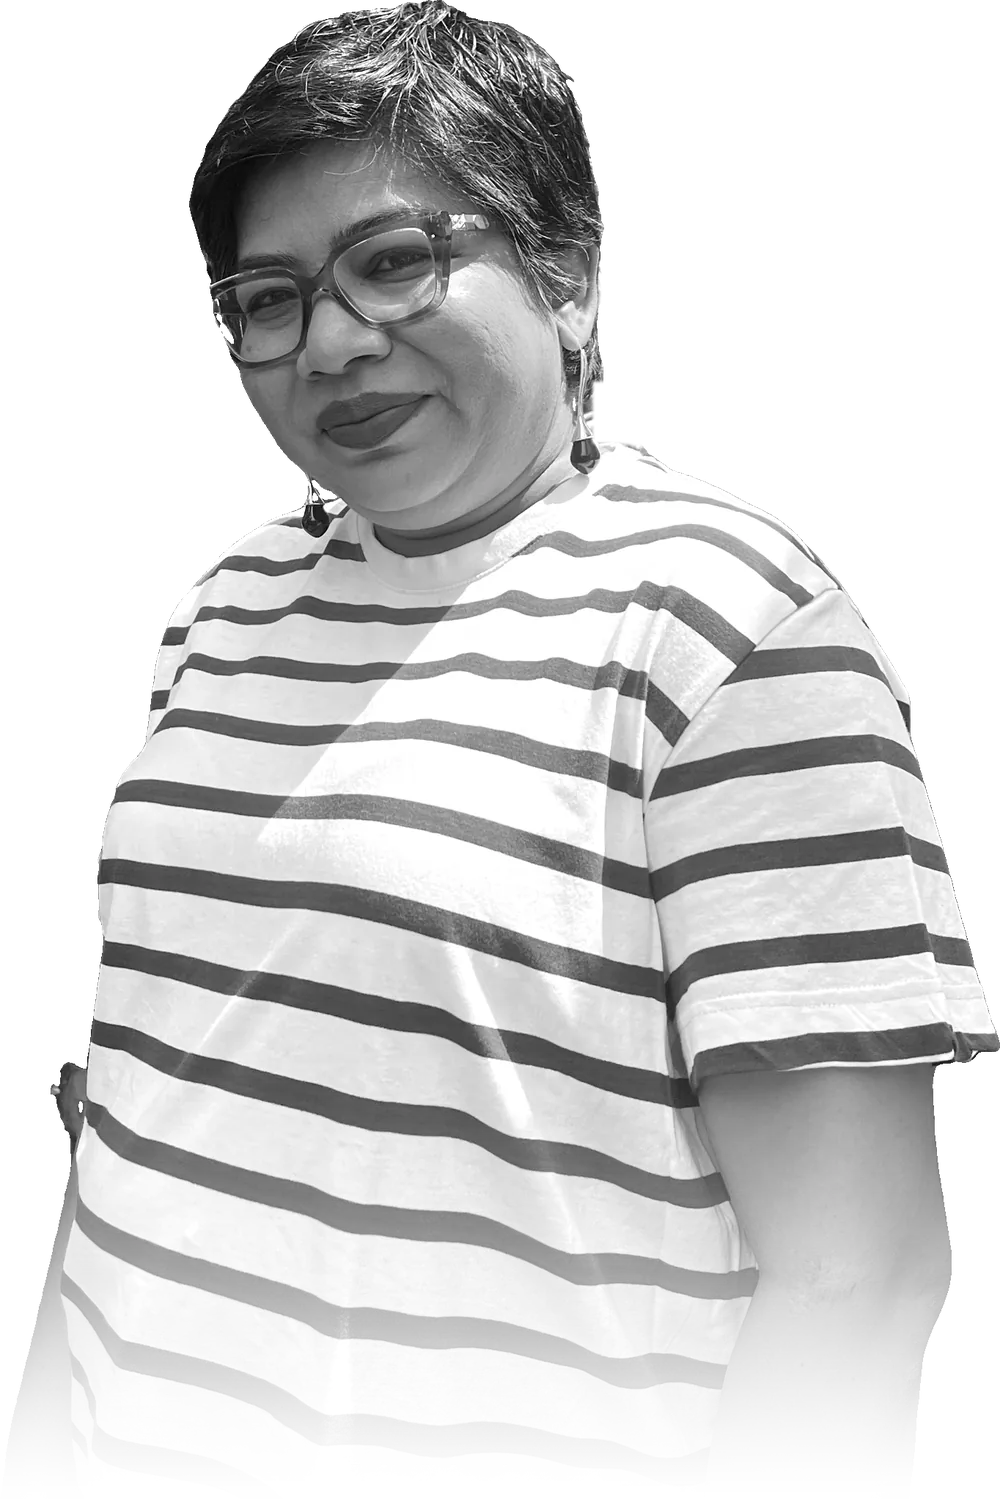
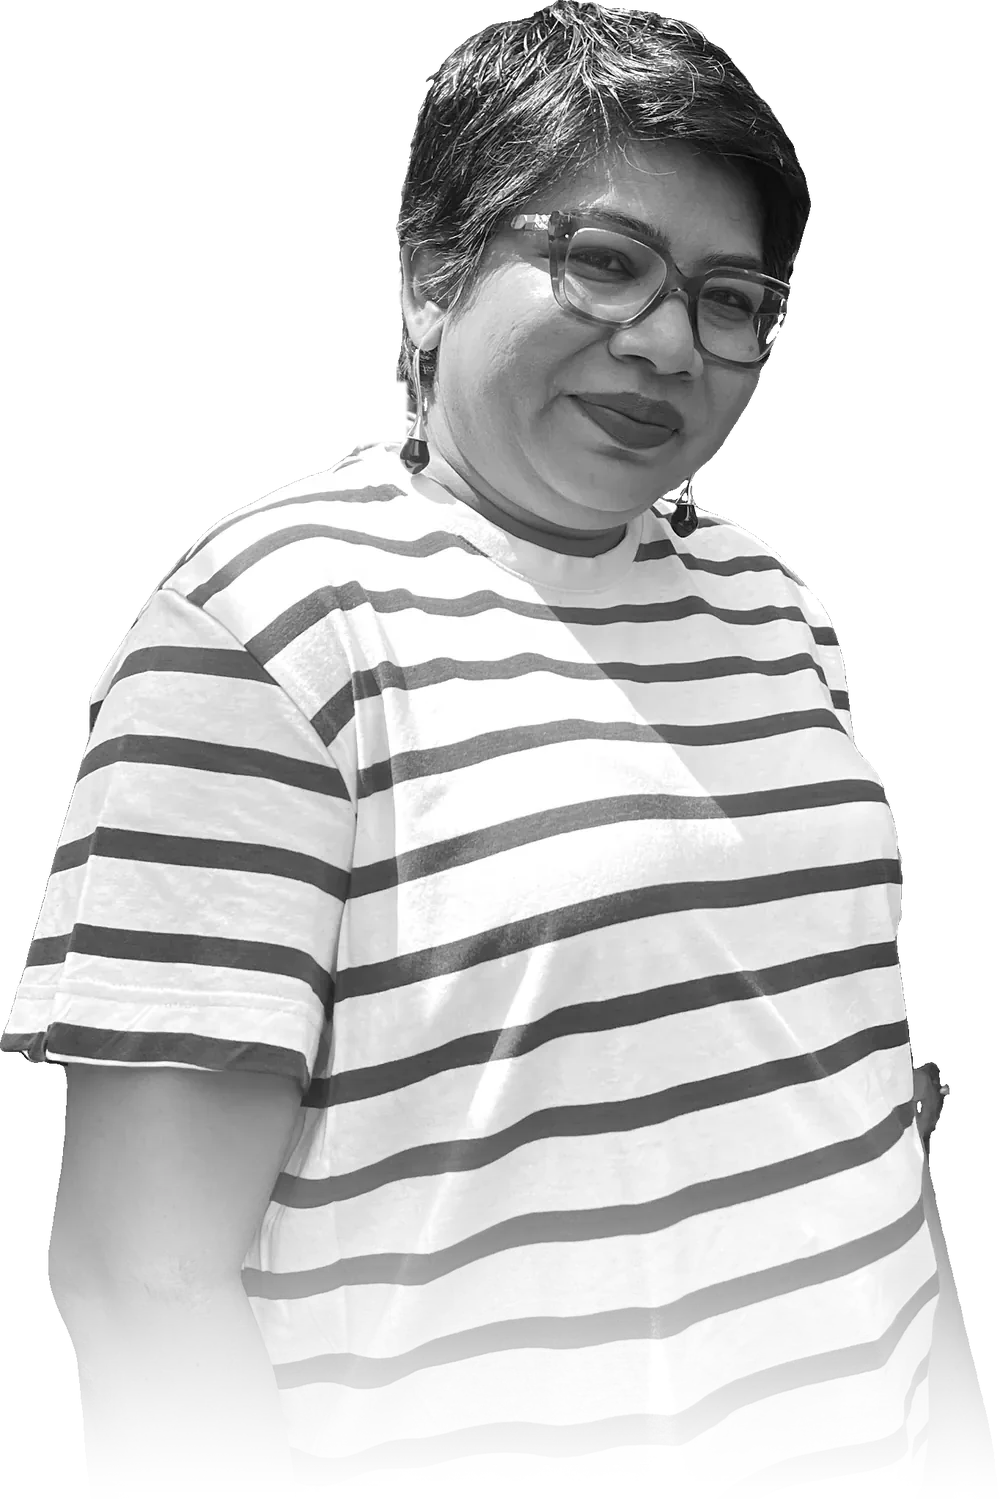
About hero: mirror portrait so it faces the text
Claude-Session: https://claude.ai/code/session_0167dUSUDkrXBENQypBVhdM8

diff --git a/about/index.html b/about/index.html
@@ -6,11 +6,11 @@
 <title>About | Suchetana Bauri</title>
 <meta name="description" content="17+ years of editorial, internal and change communication, now combined with AI enablement, digital marketing and UX & UI design.">
 <link rel="canonical" href="https://suchetanabauri.com/about/">
-<meta property="og:type" content="website"><meta property="og:title" content="About | Suchetana Bauri"><meta property="og:description" content="17+ years of editorial, internal and change communication, now combined with AI enablement, digital marketing and UX & UI design."><meta property="og:url" content="https://suchetanabauri.com/about/"><meta property="og:image" content="https://suchetanabauri.com/assets/img/about-hero.webp">
+<meta property="og:type" content="website"><meta property="og:title" content="About | Suchetana Bauri"><meta property="og:description" content="17+ years of editorial, internal and change communication, now combined with AI enablement, digital marketing and UX & UI design."><meta property="og:url" content="https://suchetanabauri.com/about/"><meta property="og:image" content="https://suchetanabauri.com/assets/img/about-hero.webp?v=8">
 <meta name="twitter:card" content="summary_large_image">
 <meta name="theme-color" content="#EBEBEB">
 <link rel="preconnect" href="https://fonts.googleapis.com"><link rel="preconnect" href="https://fonts.gstatic.com" crossorigin><link href="https://fonts.googleapis.com/css2?family=Hind+Siliguri:wght@600&family=Instrument+Serif:ital@0;1&family=Inter:wght@400;500;600&display=swap" rel="stylesheet">
-<link rel="stylesheet" href="/assets/css/site.css?v=7">
+<link rel="stylesheet" href="/assets/css/site.css?v=8">
 </head>
 <body>
 <div class="sbh" id="top">
@@ -25,7 +25,7 @@
 
 <!-- ============ ABOUT HERO ============ -->
 <section class="ab-hero wrap">
-  <div class="ab-photo rv"><img src="/assets/img/about-hero.webp" alt="Suchetana Bauri" width="1000" height="1499" fetchpriority="high"></div>
+  <div class="ab-photo rv"><img src="/assets/img/about-hero.webp?v=8" alt="Suchetana Bauri" width="1000" height="1499" fetchpriority="high"></div>
   <div class="ab-intro rv">
     <span class="tag">About me</span>
     <h1 class="ab-h1">Hi, I’m <em>Suchetana!</em></h1>
@@ -182,6 +182,6 @@
 
 </div>
 
-<script src="/assets/js/site.js?v=7" defer></script>
+<script src="/assets/js/site.js?v=8" defer></script>
 </body>
 </html>

diff --git a/index.html b/index.html
@@ -10,7 +10,7 @@
 <meta name="twitter:card" content="summary_large_image">
 <meta name="theme-color" content="#EBEBEB">
 <link rel="preconnect" href="https://fonts.googleapis.com"><link rel="preconnect" href="https://fonts.gstatic.com" crossorigin><link href="https://fonts.googleapis.com/css2?family=Hind+Siliguri:wght@600&family=Instrument+Serif:ital@0;1&family=Inter:wght@400;500;600&display=swap" rel="stylesheet">
-<link rel="stylesheet" href="/assets/css/site.css?v=7">
+<link rel="stylesheet" href="/assets/css/site.css?v=8">
 </head>
 <body>
 <div class="sbh" id="top">
@@ -267,6 +267,6 @@
 
 </div>
 
-<script src="/assets/js/site.js?v=7" defer></script>
+<script src="/assets/js/site.js?v=8" defer></script>
 </body>
 </html>

diff --git a/work/index.html b/work/index.html
@@ -10,7 +10,7 @@
 <meta name="twitter:card" content="summary_large_image">
 <meta name="theme-color" content="#EBEBEB">
 <link rel="preconnect" href="https://fonts.googleapis.com"><link rel="preconnect" href="https://fonts.gstatic.com" crossorigin><link href="https://fonts.googleapis.com/css2?family=Hind+Siliguri:wght@600&family=Instrument+Serif:ital@0;1&family=Inter:wght@400;500;600&display=swap" rel="stylesheet">
-<link rel="stylesheet" href="/assets/css/site.css?v=7">
+<link rel="stylesheet" href="/assets/css/site.css?v=8">
 </head>
 <body>
 <div class="sbh" id="top">
@@ -106,6 +106,6 @@
 
 </div>
 
-<script src="/assets/js/site.js?v=7" defer></script>
+<script src="/assets/js/site.js?v=8" defer></script>
 </body>
 </html>

diff --git a/blog/index.html b/blog/index.html
@@ -10,7 +10,7 @@
 <meta name="twitter:card" content="summary_large_image">
 <meta name="theme-color" content="#EBEBEB">
 <link rel="preconnect" href="https://fonts.googleapis.com"><link rel="preconnect" href="https://fonts.gstatic.com" crossorigin><link href="https://fonts.googleapis.com/css2?family=Hind+Siliguri:wght@600&family=Instrument+Serif:ital@0;1&family=Inter:wght@400;500;600&display=swap" rel="stylesheet">
-<link rel="stylesheet" href="/assets/css/site.css?v=7">
+<link rel="stylesheet" href="/assets/css/site.css?v=8">
 </head>
 <body>
 <div class="sbh" id="top">
@@ -77,6 +77,6 @@
 
 </div>
 
-<script src="/assets/js/site.js?v=7" defer></script>
+<script src="/assets/js/site.js?v=8" defer></script>
 </body>
 </html>
